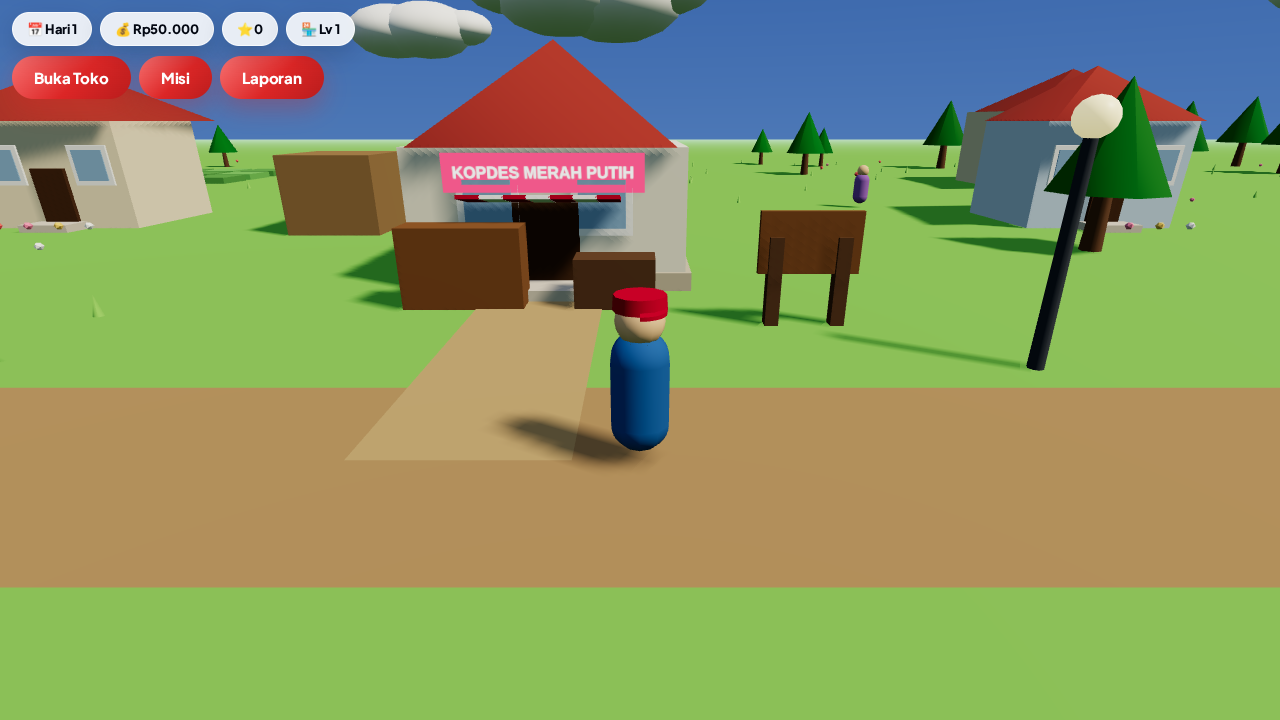
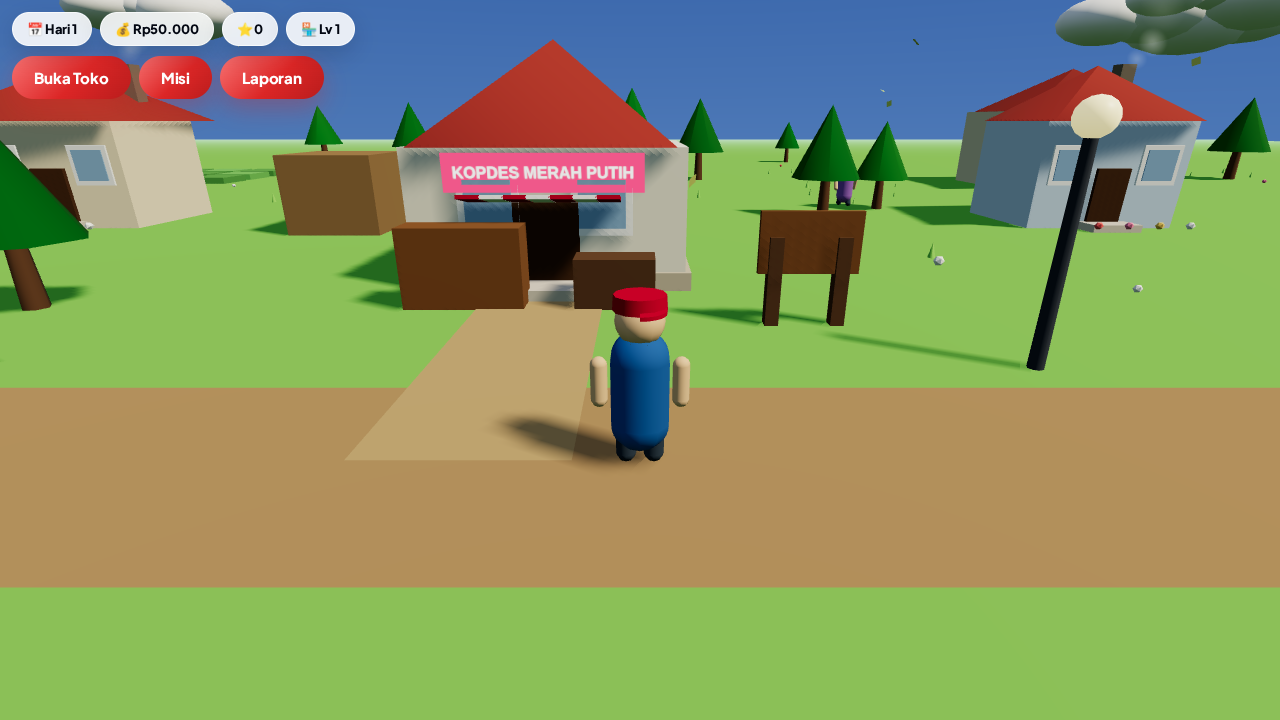
feat: animasi jalan karakter, asap cerobong, daun berguguran
- Rig tubuh bersama (js/player/rig.js): torso + kepala + lengan & kaki
  berporos dengan ayunan jalan + body bob; dipakai pemain & warga
- Pemain: animasi jalan/lari (lari 1.45x), warga: ayunan saat
  wander/toShop/leave
- Cerobong asap di 6 rumah + sprite asap naik/membesar/memudar
- Daun berguguran: 36 instanced plane melayang turun + bergoyang
- Screenshot desa.png diperbarui

diff --git a/js/world/village.js b/js/world/village.js
@@ -33,6 +33,8 @@ export function buildVillage(scene) {
   };
   const diLuarZona = (x, z, zona) =>
     !zona.some((zn) => (x - zn.x) ** 2 + (z - zn.z) ** 2 < zn.r ** 2);
+  const dummy = new THREE.Object3D();
+  const tmpWarna = new THREE.Color();
 
   // Tanah & cahaya langit
   const tanah = new THREE.Mesh(new THREE.PlaneGeometry(240, 240), std(0x79c74f));
@@ -103,8 +105,57 @@ export function buildVillage(scene) {
     }
     kotak(1.1, 2, 0.15, 0x5b3a1e, r.x, r.z + 2.05, 1); // pintu
     kotak(1.6, 0.25, 0.9, 0xd9cfc0, r.x, r.z + 2.5, 0.12); // anak tangga
+    // Cerobong asap di atap
+    const cerobong = new THREE.Mesh(new THREE.BoxGeometry(0.5, 1.4, 0.5), std(0x8a7f70));
+    cerobong.position.set(r.x + 1.5, 4.7, r.z - 0.8);
+    tambah(cerobong, true);
     collider(r.x, r.z, 5, 4);
   }
+
+  // Asap cerobong: sprite lembut yang naik, membesar, memudar (butuh DOM).
+  const asap = [];
+  if (typeof document !== 'undefined') {
+    const c = document.createElement('canvas');
+    c.width = c.height = 64;
+    const g2 = c.getContext('2d');
+    const grad = g2.createRadialGradient(32, 32, 4, 32, 32, 30);
+    grad.addColorStop(0, 'rgba(245,245,245,0.9)');
+    grad.addColorStop(1, 'rgba(245,245,245,0)');
+    g2.fillStyle = grad;
+    g2.fillRect(0, 0, 64, 64);
+    const texAsap = new THREE.CanvasTexture(c);
+    for (const r of RUMAH) {
+      for (let i = 0; i < 5; i++) {
+        const s = new THREE.Sprite(new THREE.SpriteMaterial({
+          map: texAsap, transparent: true, opacity: 0.3, depthWrite: false,
+        }));
+        s.userData = { cx: r.x + 1.5, cy: 5.4, cz: r.z - 0.8, t: Math.random() };
+        tambah(s);
+        asap.push(s);
+      }
+    }
+  }
+
+  // Daun berguguran: instanced, melayang turun + bergoyang.
+  const N_DAUN = 36;
+  const daunJatuh = new THREE.InstancedMesh(
+    new THREE.PlaneGeometry(0.24, 0.24),
+    new THREE.MeshStandardMaterial({ roughness: 0.9, metalness: 0, side: THREE.DoubleSide }),
+    N_DAUN,
+  );
+  const dataDaun = [];
+  for (let i = 0; i < N_DAUN; i++) {
+    dataDaun.push({
+      x: (Math.random() * 2 - 1) * 45,
+      y: Math.random() * 7,
+      z: (Math.random() * 2 - 1) * 40,
+      vy: 0.45 + Math.random() * 0.5,
+      f: Math.random() * 6.28,
+    });
+    daunJatuh.setColorAt(i, tmpWarna.setHSL(0.12 + Math.random() * 0.13, 0.6, 0.45));
+  }
+  daunJatuh.instanceColor.needsUpdate = true;
+  tambah(daunJatuh);
 
   // Sawah: petak-petak hijau
   for (let i = 0; i < 4; i++) {
@@ -158,8 +209,6 @@ export function buildVillage(scene) {
   };
 
   // Pohon: InstancedMesh (batang + daun) — murah untuk HP; variasi warna daun.
-  const dummy = new THREE.Object3D();
-  const tmpWarna = new THREE.Color();
   const posisiPohon = acakBebas(44);
   const batang = new THREE.InstancedMesh(
     new THREE.CylinderGeometry(0.18, 0.25, 1.6, 6), std(0x6b4a2f), posisiPohon.length);
@@ -264,12 +313,41 @@ export function buildVillage(scene) {
     balaiDesa: { x: 26, z: -19 },
   };
 
-  // Tick animasi desa (awan melayang). Dipanggil dari loop utama.
+  // Tick animasi desa (awan melayang, asap cerobong, daun gugur).
+  // Dipanggil dari loop utama.
   function tick(dt) {
     for (const a of awan) {
       a.g.position.x += a.v * dt;
       if (a.g.position.x > 95) a.g.position.x = -95;
     }
+    for (const s of asap) {
+      const u = s.userData;
+      u.t += dt * 0.22;
+      if (u.t > 1) u.t = 0;
+      s.position.set(
+        u.cx + Math.sin(u.t * 5) * 0.4 + u.t * 1.4,
+        u.cy + u.t * 3.4,
+        u.cz + Math.cos(u.t * 4) * 0.3,
+      );
+      const sk = 0.7 + u.t * 2;
+      s.scale.set(sk, sk, 1);
+      s.material.opacity = 0.3 * (1 - u.t);
+    }
+    dataDaun.forEach((d, i) => {
+      d.y -= d.vy * dt;
+      d.f += dt * 1.6;
+      if (d.y < 0.15) {
+        d.y = 5 + Math.random() * 3;
+        d.x = (Math.random() * 2 - 1) * 45;
+        d.z = (Math.random() * 2 - 1) * 40;
+      }
+      dummy.position.set(d.x + Math.sin(d.f) * 0.9, d.y, d.z);
+      dummy.rotation.set(d.f * 0.7, d.f, 0);
+      dummy.scale.setScalar(1);
+      dummy.updateMatrix();
+      daunJatuh.setMatrixAt(i, dummy.matrix);
+    });
+    daunJatuh.instanceMatrix.needsUpdate = true;
   }
 
   return { colliders, spots, kopdes, tick };

diff --git a/js/player/character.js b/js/player/character.js
@@ -1,5 +1,6 @@
 import * as THREE from '../../vendor/three.module.js';
 import { resolveCircle } from '../world/collision.js';
+import { bangunTubuh } from './rig.js';
 
 const JALAN = 4; // m/s
 const LARI = 7; // m/s (tahan Shift)
@@ -8,30 +9,18 @@ const RADIUS = 0.4;
 const _targetKamera = new THREE.Vector3();
 
 function bangunMesh() {
-  const g = new THREE.Group();
-  const std = (warna, rough = 0.85) =>
-    new THREE.MeshStandardMaterial({ color: warna, roughness: rough, metalness: 0 });
-  const badan = new THREE.Mesh(
-    new THREE.CapsuleGeometry(0.32, 0.7, 4, 10),
-    std(0x2b6cb0),
-  );
-  badan.position.y = 0.85;
-  g.add(badan);
-  const kepala = new THREE.Mesh(
-    new THREE.SphereGeometry(0.26, 12, 10),
-    std(0xf2c89b, 0.7),
-  );
-  kepala.position.y = 1.62;
-  g.add(kepala);
-  // Topi merah khas Kopdes
-  const topi = new THREE.Mesh(new THREE.CylinderGeometry(0.27, 0.28, 0.16, 12), std(0xc8102e, 0.8));
+  const { group, rig, ayun } = bangunTubuh({ baju: 0x2b6cb0 });
+  // Topi merah khas Kopdes (ikut rig agar bergoyang saat jalan)
+  const std = (warna) => new THREE.MeshStandardMaterial({ color: warna, roughness: 0.8, metalness: 0 });
+  const topi = new THREE.Mesh(new THREE.CylinderGeometry(0.27, 0.28, 0.16, 12), std(0xc8102e));
   topi.position.y = 1.82;
-  g.add(topi);
-  const lidah = new THREE.Mesh(new THREE.CylinderGeometry(0.27, 0.27, 0.04, 12, 1, false, 0, Math.PI), std(0xc8102e, 0.8));
+  topi.castShadow = true;
+  rig.add(topi);
+  const lidah = new THREE.Mesh(new THREE.CylinderGeometry(0.27, 0.27, 0.04, 12, 1, false, 0, Math.PI), std(0xc8102e));
   lidah.position.set(0, 1.76, 0.14);
-  g.add(lidah);
-  g.traverse((o) => { if (o.isMesh) { o.castShadow = true; } });
-  return g;
+  rig.add(lidah);
+  group.userData.ayun = ayun;
+  return group;
 }
 
 export function createPlayer() {
@@ -64,6 +53,9 @@ export function createPlayer() {
       const p = resolveCircle(pos, RADIUS, colliders);
       pos.x = p.x;
       pos.z = p.z;
+      group.userData.ayun(dt, true, lari ? 1.45 : 1);
+    } else {
+      group.userData.ayun(dt, false);
     }
     group.position.set(pos.x, 0, pos.z);
   }

diff --git a/js/player/rig.js b/js/player/rig.js
@@ -1,0 +1,55 @@
+import * as THREE from '../../vendor/three.module.js';
+
+// Rig tubuh low-poly bersama: torso + kepala + lengan & kaki berporos,
+// dengan ayunan jalan (dipakai pemain & warga).
+const std = (warna, rough = 0.85) =>
+  new THREE.MeshStandardMaterial({ color: warna, roughness: rough, metalness: 0 });
+
+export function bangunTubuh({ baju = 0x2b6cb0, kulit = 0xf2c89b, celana = 0x3a4a5a, kepalaR = 0.26 } = {}) {
+  const group = new THREE.Group();
+  const rig = new THREE.Group(); // wadah bob agar tak mengganggu posisi group
+  group.add(rig);
+
+  const torso = new THREE.Mesh(new THREE.CapsuleGeometry(0.32, 0.7, 4, 10), std(baju));
+  torso.position.y = 0.85;
+  rig.add(torso);
+  const kepala = new THREE.Mesh(new THREE.SphereGeometry(kepalaR, 12, 10), std(kulit, 0.7));
+  kepala.position.y = 1.62;
+  rig.add(kepala);
+
+  const anggota = (r, len, mat, x, y) => {
+    const pivot = new THREE.Group();
+    pivot.position.set(x, y, 0);
+    const m = new THREE.Mesh(new THREE.CapsuleGeometry(r, len, 4, 8), mat);
+    m.position.y = -(len / 2 + r * 0.6);
+    pivot.add(m);
+    rig.add(pivot);
+    return pivot;
+  };
+  const matLengan = std(kulit, 0.7);
+  const matKaki = std(celana);
+  const lenganKiri = anggota(0.09, 0.38, matLengan, -0.43, 1.2);
+  const lenganKanan = anggota(0.09, 0.38, matLengan, 0.43, 1.2);
+  const kakiKiri = anggota(0.11, 0.32, matKaki, -0.15, 0.52);
+  const kakiKanan = anggota(0.11, 0.32, matKaki, 0.15, 0.52);
+  const semua = [lenganKiri, lenganKanan, kakiKiri, kakiKanan];
+
+  let fase = 0;
+  function ayun(dt, bergerak, cepat = 1) {
+    if (bergerak) {
+      fase += dt * 9 * cepat;
+      const a = Math.sin(fase);
+      lenganKiri.rotation.x = a * 0.55;
+      lenganKanan.rotation.x = -a * 0.55;
+      kakiKiri.rotation.x = -a * 0.6;
+      kakiKanan.rotation.x = a * 0.6;
+      rig.position.y = Math.abs(Math.cos(fase)) * 0.05;
+    } else {
+      for (const p of semua) p.rotation.x *= 0.8;
+      rig.position.y *= 0.8;
+    }
+  }
+
+  group.traverse((o) => { if (o.isMesh) o.castShadow = true; });
+  return { group, rig, ayun };
+}

diff --git a/js/npc/villagers.js b/js/npc/villagers.js
@@ -1,4 +1,4 @@
-import * as THREE from '../../vendor/three.module.js';
+import { bangunTubuh } from '../player/rig.js';
 
 // Brain NPC murni (tanpa three.js) + villagerMesh() terpisah untuk visual.
 // State: wander → toShop → queue → buying → leave → wander
@@ -108,21 +108,12 @@ export function disperseQueue(villagers) {
 
 // Visual low-poly, terpisah dari brain.
 export function villagerMesh(warnaBaju = 0xc25e5e) {
-  const g = new THREE.Group();
-  const std = (warna, rough = 0.85) =>
-    new THREE.MeshStandardMaterial({ color: warna, roughness: rough, metalness: 0 });
-  const badan = new THREE.Mesh(
-    new THREE.CapsuleGeometry(0.3, 0.65, 4, 10),
-    std(warnaBaju),
-  );
-  badan.position.y = 0.8;
-  g.add(badan);
-  const kepala = new THREE.Mesh(
-    new THREE.SphereGeometry(0.24, 12, 10),
-    std(0xf2c89b, 0.7),
-  );
-  kepala.position.y = 1.52;
-  g.add(kepala);
-  g.traverse((o) => { if (o.isMesh) { o.castShadow = true; } });
-  return g;
+  const { group, ayun } = bangunTubuh({ baju: warnaBaju, kepalaR: 0.24 });
+  group.userData.ayun = ayun;
+  return group;
+}
+
+// Ayunan jalan warga; bergerak=true saat state berpindah (wander/toShop/leave).
+export function ayunVillager(group, dt, bergerak) {
+  group.userData.ayun?.(dt, bergerak, 0.8);
 }

diff --git a/js/main.js b/js/main.js
@@ -4,7 +4,7 @@ import { createInput } from './core/input.js';
 import { buildVillage } from './world/village.js';
 import { buildKopdes } from './world/kopdes.js';
 import { createPlayer, updateCamera } from './player/character.js';
-import { createVillager, stepVillager, disperseQueue, villagerMesh } from './npc/villagers.js';
+import { createVillager, stepVillager, disperseQueue, villagerMesh, ayunVillager } from './npc/villagers.js';
 import { createStock, ITEMS, nilaiModal } from './shop/stock.js';
 import { createCashier } from './shop/cashier.js';
 import { createDay } from './shop/day.js';
@@ -367,6 +367,7 @@ const loop = createLoop({
       const sebelum = v.state;
       stepVillager(v, dt, ctx);
       v.group.position.set(v.pos.x, 0, v.pos.z);
+      ayunVillager(v.group, dt, v.state === 'wander' || v.state === 'toShop' || v.state === 'leave');
       if (sebelum === 'buying' && v.state === 'leave') jualKe();
     }
     serveTarget = null;
